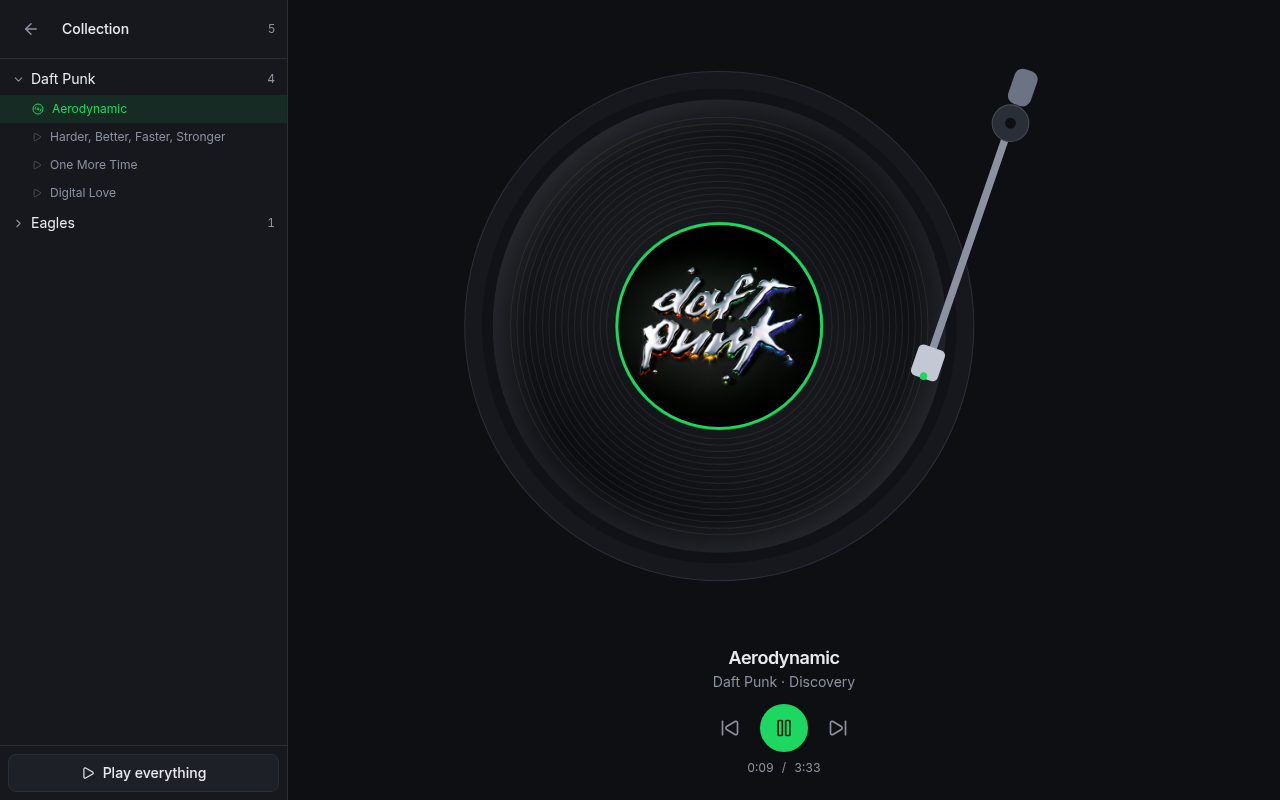
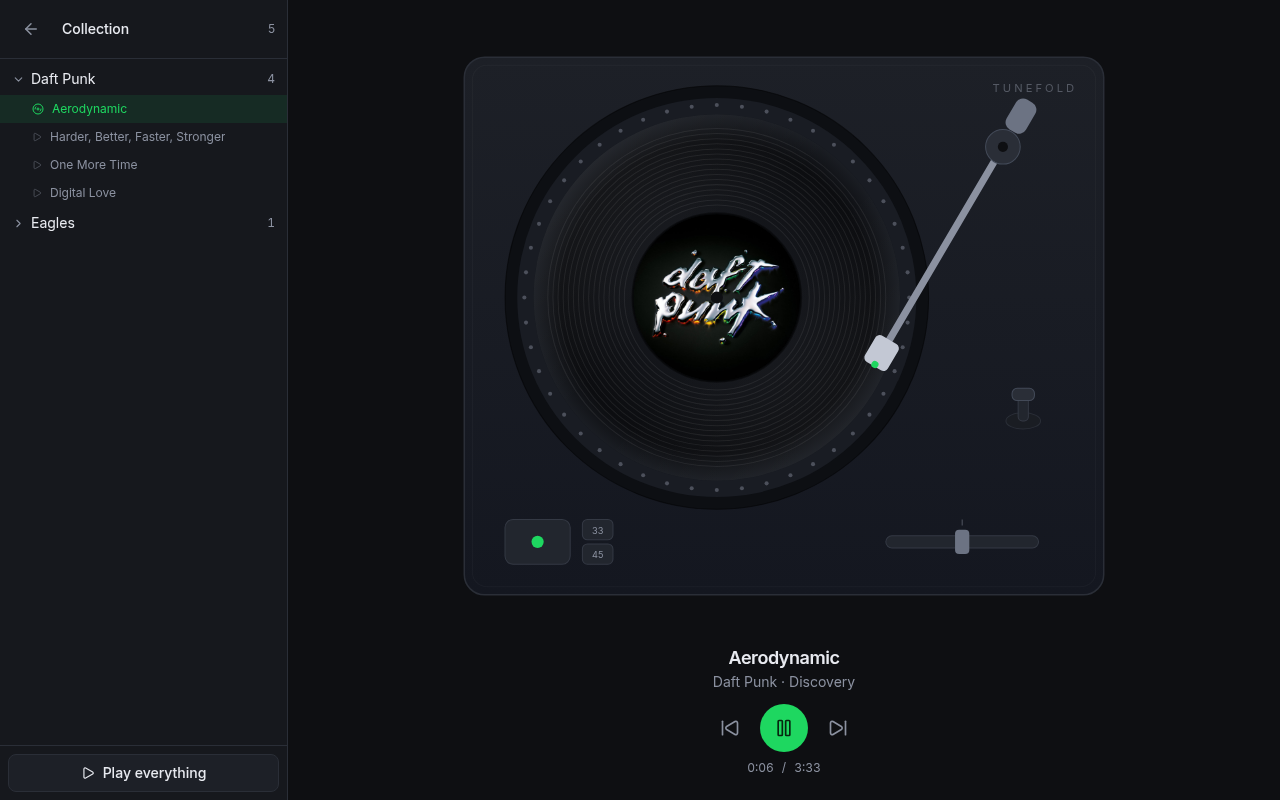
Draw the whole deck, not a record floating in space
The platter sits at 40% of the frame's width because the arm needs the rest
of it, so the record read as off-centre against the controls underneath,
which are centred. Drawing the plinth around it fixes that by making the
deck the thing the eye centres on - and the platter being left of centre is
then simply where it sits on a real turntable.

With a deck there is somewhere to put the furniture: strobe dots round the
platter rim, a start/stop light that comes on with playback, 33 and 45, a
pitch fader parked at zero, and a cradle for the arm to actually rest in
rather than hanging in mid-air.

The green label now only shows when a track has no artwork; behind a cover
it was a neon ring round every record. And an idle deck has an empty
platter, where it used to show a record with a large green label on it.

diff --git a/src/components/Turntable.tsx b/src/components/Turntable.tsx
@@ -1,16 +1,18 @@
 import { useEffect, useRef, useState } from 'react'
 
-/** Geometry, in the SVG's own units. The arm is a real one: it pivots off to
- *  the side and its stylus has to land on the groove, so the two end angles
- *  are solved from the pivot distance rather than eyeballed. */
-const C = { x: 250, y: 280 }
-const R = 210
-const PIVOT = { x: 520, y: 92 }
+/** A whole deck, not a floating record: the platter sits where it sits on a
+ *  real turntable - left of centre, with the arm at the back right - and the
+ *  plinth around it is what the eye centres on. */
+const DECK = { x: 16, y: 16, w: 628, h: 528, r: 20 }
+const C = { x: 264, y: 252 }          // spindle
+const R_PLATTER = 196
+const R_REC = 180
+const PIVOT = { x: 545, y: 104 }
 const ARM = 250
-const R_OUT = R * 0.95          // outer groove, where a side starts
-const R_LABEL = R * 0.46        // the paper label, where it runs out
+const R_OUT = R_REC * 0.95            // outer groove, where a side starts
+const R_LABEL = R_REC * 0.46          // the paper label, where it runs out
 const RPM = 33 + 1 / 3
-const SPIN_MS = (60 / RPM) * 1000   // 1800 ms per turn, the real thing
+const SPIN_MS = (60 / RPM) * 1000     // 1800 ms a revolution, the real figure
 
 /** Where the stylus sits for a given arm angle. SVG rotates the other way
  *  round from the usual maths convention once y points down, hence the minus:
@@ -26,7 +28,7 @@ const radiusAt = (t: number) => {
 }
 
 function angleFor(target: number): number {
-  let lo = -0.3, hi = 1.1          // radius shrinks as the arm swings in
+  let lo = -0.3, hi = 1.2             // radius shrinks as the arm swings in
   for (let i = 0; i < 50; i++) {
     const mid = (lo + hi) / 2
     if (radiusAt(mid) > target) lo = mid
@@ -35,10 +37,14 @@ function angleFor(target: number): number {
   return (lo + hi) / 2
 }
 
-const A_START = angleFor(R_OUT)     // outer groove
-const A_END = angleFor(R_LABEL)     // run-out, by the label
-const A_REST = -0.08                // parked, clear of the record
+const A_START = angleFor(R_OUT)
+const A_END = angleFor(R_LABEL)
+const A_REST = -0.08                  // parked in the cradle
+const REST = stylusAt(A_REST)
 const deg = (rad: number) => (rad * 180) / Math.PI
+
+const STROBE = Array.from({ length: 48 }, (_, i) => (i * 2 * Math.PI) / 48)
+const GROOVES = Array.from({ length: 16 }, (_, i) => R_LABEL + 8 + i * ((R_OUT - R_LABEL - 8) / 16))
 
 const reducedMotion = () =>
   typeof matchMedia !== 'undefined' && matchMedia('(prefers-reduced-motion: reduce)').matches
@@ -54,6 +60,7 @@ export function Turntable({ cover, progress, playing, swapping, trackKey, onSeek
 }) {
   const svg = useRef<SVGSVGElement>(null)
   const disc = useRef<SVGGElement>(null)
+  const platter = useRef<SVGGElement>(null)
   const [drag, setDrag] = useState<number | null>(null)
 
   // Rotation is driven frame by frame rather than by a CSS animation, so the
@@ -71,7 +78,9 @@ export function Turntable({ cover, progress, playing, swapping, trackKey, onSeek
       const target = playing && !swapping ? 360 / (SPIN_MS / 1000) : 0
       speed += (target - speed) * Math.min(1, dt * 3.5)
       angle = (angle + speed * dt) % 360
-      if (disc.current) disc.current.style.transform = `rotate(${angle}deg)`
+      const turn = `rotate(${angle}deg)`
+      if (disc.current) disc.current.style.transform = turn
+      if (platter.current) platter.current.style.transform = turn
       raf = requestAnimationFrame(tick)
     }
     raf = requestAnimationFrame(tick)
@@ -80,6 +89,7 @@ export function Turntable({ cover, progress, playing, swapping, trackKey, onSeek
 
   const shown = drag ?? progress
   const armAngle = swapping || !trackKey ? A_REST : A_START + shown * (A_END - A_START)
+  const spin = { transformOrigin: `${C.x}px ${C.y}px` }
 
   const toProgress = (e: React.PointerEvent): number | null => {
     const node = svg.current
@@ -91,12 +101,12 @@ export function Turntable({ cover, progress, playing, swapping, trackKey, onSeek
   }
 
   return (
-    <svg ref={svg} viewBox="0 0 620 560" className="h-full w-full select-none"
+    <svg ref={svg} viewBox="0 0 660 560" className="h-full w-full select-none"
       onPointerMove={(e) => { if (drag !== null) { const p = toProgress(e); if (p !== null) setDrag(p) } }}
       onPointerUp={() => { if (drag !== null) { onSeek(drag); setDrag(null) } }}
       onPointerLeave={() => { if (drag !== null) { onSeek(drag); setDrag(null) } }}>
       <defs>
-        <clipPath id="tf-label"><circle cx={C.x} cy={C.y} r={R_LABEL - 3} /></clipPath>
+        <clipPath id="tf-label"><circle cx={C.x} cy={C.y} r={R_LABEL - 1} /></clipPath>
         <radialGradient id="tf-vinyl" cx="50%" cy="50%">
           <stop offset="40%" stopColor="#15171c" />
           <stop offset="85%" stopColor="#0c0d10" />
@@ -108,26 +118,70 @@ export function Turntable({ cover, progress, playing, swapping, trackKey, onSeek
           <stop offset="55%" stopColor="#ffffff" stopOpacity="0" />
           <stop offset="100%" stopColor="#ffffff" stopOpacity="0.05" />
         </linearGradient>
+        <linearGradient id="tf-deck" x1="0" y1="0" x2="0" y2="1">
+          <stop offset="0%" stopColor="#1d2027" />
+          <stop offset="100%" stopColor="#141720" />
+        </linearGradient>
       </defs>
 
-      {/* platter */}
-      <circle cx={C.x} cy={C.y} r={R + 26} fill="#16181d" stroke="#2a2e37" />
-      <circle cx={C.x} cy={C.y} r={R + 10} fill="#101217" />
+      {/* plinth */}
+      <rect x={DECK.x} y={DECK.y} width={DECK.w} height={DECK.h} rx={DECK.r}
+        fill="url(#tf-deck)" stroke="#2a2e37" strokeWidth="1.5" />
+      <rect x={DECK.x + 8} y={DECK.y + 8} width={DECK.w - 16} height={DECK.h - 16} rx={DECK.r - 6}
+        fill="none" stroke="#ffffff" strokeOpacity="0.03" />
 
-      <g key={trackKey} ref={disc} className="tf-disc" style={{ transformOrigin: `${C.x}px ${C.y}px` }}>
-        <circle cx={C.x} cy={C.y} r={R} fill="url(#tf-vinyl)" />
-        {Array.from({ length: 16 }, (_, i) => R_LABEL + 8 + i * ((R_OUT - R_LABEL - 8) / 16)).map((r) => (
+      {/* platter well */}
+      <circle cx={C.x} cy={C.y} r={R_PLATTER + 12} fill="#0d0f13" />
+      <circle cx={C.x} cy={C.y} r={R_PLATTER + 12} fill="none" stroke="#000000" strokeOpacity="0.5" />
+
+      {/* platter: strobe dots round the rim, the way a deck shows its speed */}
+      <g ref={platter} style={spin}>
+        <circle cx={C.x} cy={C.y} r={R_PLATTER} fill="#191c23" />
+        {STROBE.map((a) => (
+          <circle key={a} r="2" fill="#8b91a0" fillOpacity="0.45"
+            cx={C.x + (R_PLATTER - 7) * Math.cos(a)} cy={C.y + (R_PLATTER - 7) * Math.sin(a)} />
+        ))}
+        <circle cx={C.x} cy={C.y} r={R_PLATTER - 16} fill="#13161c" />
+      </g>
+
+      {/* no record on the platter until there is something to play */}
+      {trackKey && (
+      <g key={trackKey} ref={disc} className="tf-disc" style={spin}>
+        <circle cx={C.x} cy={C.y} r={R_REC} fill="url(#tf-vinyl)" />
+        {GROOVES.map((r) => (
           <circle key={r} cx={C.x} cy={C.y} r={r} fill="none" stroke="#ffffff" strokeOpacity={0.07} strokeWidth="1" />
         ))}
-        <circle cx={C.x} cy={C.y} r={R} fill="url(#tf-sheen)" />
-        <circle cx={C.x} cy={C.y} r={R_LABEL} fill="#1ed760" />
+        <circle cx={C.x} cy={C.y} r={R_REC} fill="url(#tf-sheen)" />
+        <circle cx={C.x} cy={C.y} r={R_LABEL} fill={cover ? '#0b0d10' : '#1ed760'} />
         {cover && (
           <image href={cover} clipPath="url(#tf-label)" preserveAspectRatio="xMidYMid slice"
             x={C.x - R_LABEL} y={C.y - R_LABEL} width={R_LABEL * 2} height={R_LABEL * 2} />
         )}
-        <circle cx={C.x} cy={C.y} r={R_LABEL} fill="none" stroke="#000000" strokeOpacity="0.35" />
-        <circle cx={C.x} cy={C.y} r="7" fill="#0e0f12" />
+        <circle cx={C.x} cy={C.y} r={R_LABEL} fill="none" stroke="#000000" strokeOpacity="0.45" strokeWidth="2" />
+        <circle cx={C.x} cy={C.y} r="6" fill="#0e0f12" />
       </g>
+      )}
+      <circle cx={C.x} cy={C.y} r="6" fill="#0e0f12" />
+
+      {/* arm rest, where the arm parks between sides */}
+      <ellipse cx={REST.x} cy={REST.y + 20} rx="17" ry="8" fill="#1a1d23" stroke="#2a2e37" />
+      <rect x={REST.x - 5} y={REST.y - 6} width="10" height="26" rx="4" fill="#22262e" stroke="#343944" />
+      <rect x={REST.x - 11} y={REST.y - 12} width="22" height="12" rx="5" fill="#2a2e37" stroke="#434a58" />
+
+      {/* deck furniture */}
+      <g fill="#22262e" stroke="#343944">
+        <rect x={56} y={470} width={64} height={44} rx="8" />
+        <rect x={132} y={470} width={30} height={20} rx="5" />
+        <rect x={132} y={494} width={30} height={20} rx="5" />
+        <rect x={430} y={486} width={150} height={12} rx="6" />
+      </g>
+      <circle cx={88} cy={492} r="6" fill={playing ? '#1ed760' : '#343944'} />
+      <rect x={498} y={480} width="14" height="24" rx="4" fill="#6c7383" />
+      <line x1={505} y1={476} x2={505} y2={470} stroke="#8b91a0" strokeOpacity="0.5" />
+      <text x={147} y={484} fill="#8b91a0" fontSize="9" textAnchor="middle" fontFamily="inherit">33</text>
+      <text x={147} y={508} fill="#8b91a0" fontSize="9" textAnchor="middle" fontFamily="inherit">45</text>
+      <text x={DECK.x + DECK.w - 26} y={DECK.y + 34} fill="#8b91a0" fillOpacity="0.5" fontSize="11"
+        letterSpacing="3" textAnchor="end" fontFamily="inherit">TUNEFOLD</text>
 
       {/* tonearm: the progress bar, and the way to scrub */}
       <g className="tf-arm" style={{
